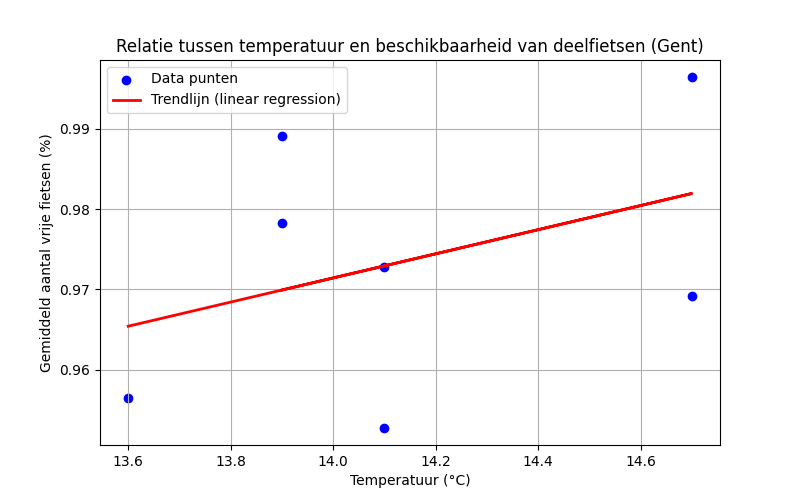
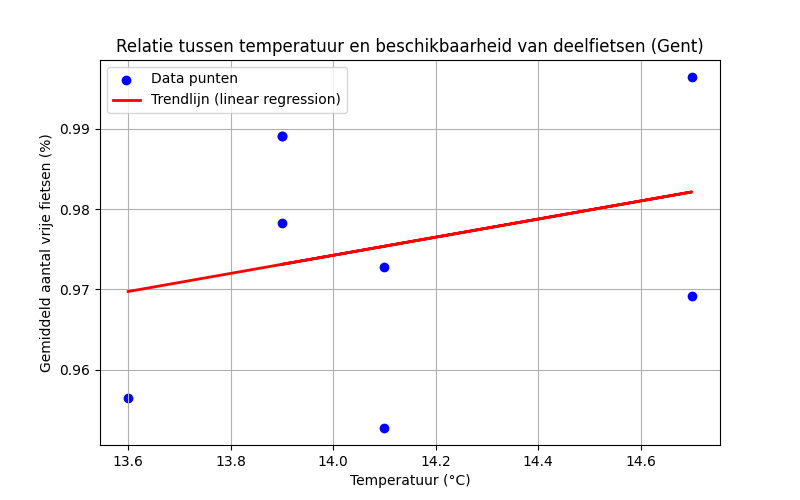
Automatische update 2025-11-14 14:15:07

diff --git a/reports/report.md b/reports/report.md
@@ -1,12 +1,12 @@
 # Data workflow rapport
 
-Datum gegenereerd: 2025-11-14 14:10:07.798797
+Datum gegenereerd: 2025-11-14 14:15:06.811303
 
 ## Grafiek: Vrije fietsen vs Temperatuur
 
 ![Fietsen vs Temp](reports/fiets_vs_temp.png)
 
 ## Basisstatistieken
-- Gemiddelde temperatuur: 14.14 °C
-- Gemiddeld aantal vrije fietsen: 0.97
-- Correlatie: 0.39
+- Gemiddelde temperatuur: 14.11 °C
+- Gemiddeld aantal vrije fietsen: 0.98
+- Correlatie: 0.28
